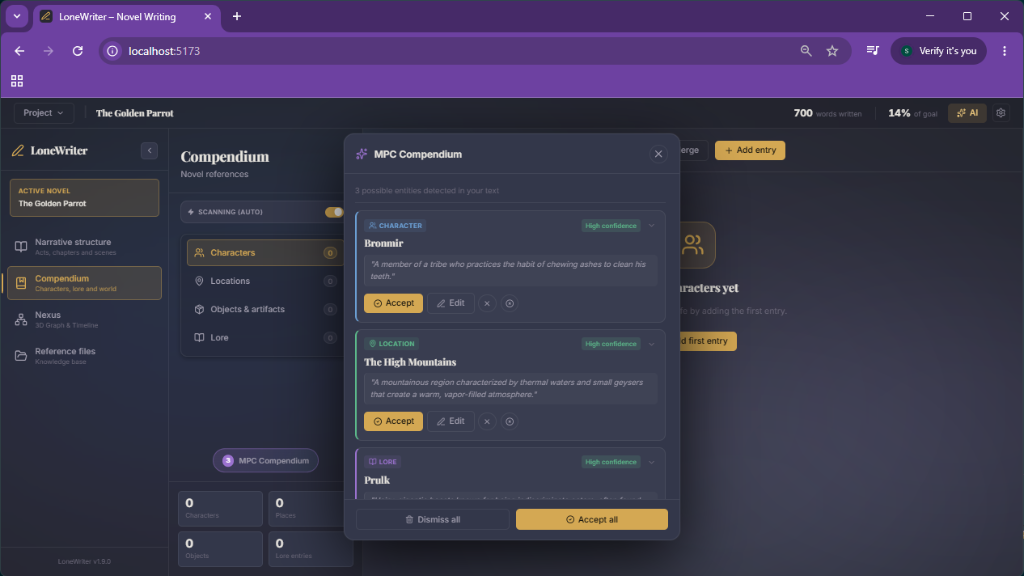
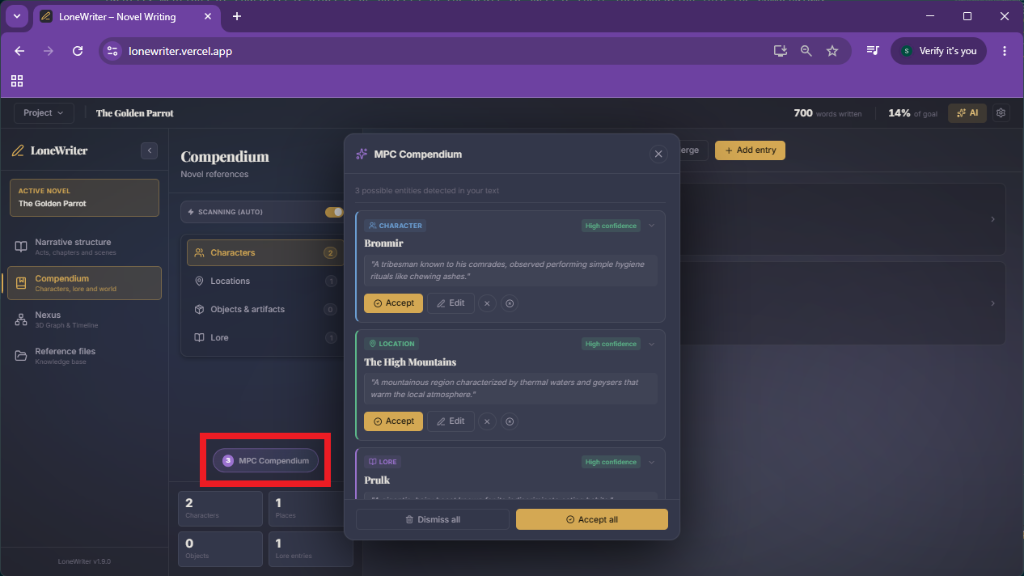
docs: finalize MPC and Oracle documentation standards with expanded technical details and visual improvements

diff --git a/docs/es/guide/worldbuilding/mpc.md b/docs/es/guide/worldbuilding/mpc.md
@@ -2,7 +2,8 @@
 
 El Monitor de Propuestas del Compendio (MPC) es una herramienta de asistencia que opera durante el proceso de escritura. Su función es identificar automáticamente menciones de personajes, lugares u objetos en el borrador para sugerir su incorporación al Compendio.
 
----
+> [!IMPORTANT]
+> El MPC ha sido diseñado como una herramienta de apoyo que siempre requiere la supervisión del autor. Ningún elemento se añadirá al Compendio sin su aprobación explícita.
 
 ## Funcionamiento del MPC
 
@@ -14,54 +15,33 @@ El Monitor de Propuestas del Compendio (MPC) es una herramienta de asistencia qu
 </div>
 <div style="flex: 1; min-width: 300px;">
 
-Mientras redacta en el editor, el motor de IA analiza el flujo de su narrativa de forma periódica y silenciosa en segundo plano para detectar elementos clave.
+Mientras redacta en el editor, el motor de IA analiza el flujo de su narrativa de forma periódica y silenciosa en segundo plano para detectar elementos clave que aún no han sido registrados (Personajes, Lugares, Objetos o elementos de Lore).
 
-**Para que este análisis inteligente se ejecute correctamente, asegúrese de tener siempre activado el interruptor de escaneo automático (Scanning Auto) que encontrará en la cabecera de la vista del Compendio.**
+Para garantizar un rendimiento fluido, el monitor utiliza un intervalo de cortesía (**cooldown**) de unos 15 segundos entre cada análisis automático. Si prefiere un resultado inmediato sobre un párrafo concreto, puede forzarlo mediante el **Análisis Manual**: simplemente seleccione el texto y pulse el botón MPC en la cabecera.
 
-Por ejemplo, si escribe: *"El oficial Valerius exploraba las ruinas de Kaelum"*, el MPC identificará posibles entradas para Valerius y Kaelum.
+**Para que el análisis en segundo plano se ejecute, asegúrese de tener activado el interruptor "Scanning Auto" en la cabecera de la vista del Compendio.**
 
 </div>
 </div>
 
 ---
 
-### Guía visual paso a paso
-
-````carousel
-![1. Detección automática de entidades mientras el autor escribe](/img/guide/worldbuilding/mpc_step1.png)
-<!-- slide -->
-![2. Revisión de las entidades detectadas automáticamente](/img/guide/worldbuilding/mpc_step2.png)
-<!-- slide -->
-![3. Activación manual del MPC (búsqueda en texto seleccionado)](/img/guide/worldbuilding/mpc_step3.png)
-<!-- slide -->
-![4. Revisión de las nuevas entidades detectadas en la selección](/img/guide/worldbuilding/mpc_step4.png)
-<!-- slide -->
-![5. Navegación por el Compendio con las entidades guardadas](/img/guide/worldbuilding/mpc_step5.png)
-````
-
-> [!TIP] Primer uso
-> La primera vez que active el MPC, el sistema descargará automáticamente el modelo local **all-MiniLM-L6-v2** (aprox. 25MB). Este proceso solo ocurre una vez y permite que el análisis semántico se realice íntegramente en su dispositivo, garantizando su privacidad.
-
----
 
 ## Gestión de Propuestas
-Las detecciones se muestran en el panel lateral del MPC. Para cada propuesta, dispone de las siguientes opciones:
+Las detecciones se muestran en el panel lateral del MPC. El sistema filtra automáticamente cualquier nombre que ya exista en su Compendio para evitar duplicidades. Para cada propuesta, dispone de las siguientes opciones:
 
-- **Aceptar**: La entidad se crea en el Compendio con los datos extraídos por el sistema.
-- **Rechazar**: La propuesta se descarta.
-- **Editar**: Permite modificar el nombre o la categoría antes de confirmar la creación.
+- **Aceptar**: La entidad se crea en el Compendio. El sistema intenta extraer automáticamente datos como el rol, la categoría o rasgos distintivos basándose en el contexto.
+- **Rechazar**: Elimina la propuesta de la lista de sugerencias actual.
+- **Ignorar Permanentemente**: Añade el nombre a una \"lista negra\" específica de la novela para que el monitor no vuelva a sugerirlo en futuros escaneos.
+- **Editar**: Permite modificar el nombre o cambiar la categoría (ej. de Personaje a Objeto) antes de confirmar la creación definitiva.
 
----
+> [!NOTE] CONSEJO
+> Las propuestas del MPC se guardan localmente para cada novela. Puede cerrar la aplicación y sus sugerencias pendientes seguirán disponibles en su próxima sesión.
 
-## Detección de Relaciones
-El sistema no se limita a identificar nombres propios, sino que también intenta inferir vínculos entre entidades basándose en el contexto del texto, sugiriendo relaciones automáticas cuando es posible.
-
----
-
-## Configuración
-La sensibilidad y frecuencia del MPC pueden ajustarse desde el menú de Configuración:
-- **Frecuencia**: Define el intervalo de análisis del texto.
-- **Estado**: Permite activar o desactivar el monitor según las necesidades del flujo de trabajo.
-
-> [!IMPORTANT] IMPORTANTE
-> El MPC ha sido diseñado como una herramienta de apoyo que siempre requiere la supervisión del autor. Ningún elemento se añadirá al Compendio sin su aprobación explícita.
+<StepCarousel :slides="[
+  { src: '/img/guide/worldbuilding/mpc_step1.png', label: '1. Detección automática de entidades mientras el autor escribe.' },
+  { src: '/img/guide/worldbuilding/mpc_step2.png', label: '2. Revisión de las entidades detectadas automáticamente (notificadas en el botón del MPC).' },
+  { src: '/img/guide/worldbuilding/mpc_step3.png', label: '3. Activación manual del MPC: búsqueda de entidades en un fragmento de texto seleccionado.' },
+  { src: '/img/guide/worldbuilding/mpc_step4.png', label: '4. Revisión de las nuevas entidades detectadas basándose en la selección anterior.' },
+  { src: '/img/guide/worldbuilding/mpc_step5.png', label: '5. Navegación por el Compendio con todas las nuevas entidades guardadas y organizadas.' }
+]" />

diff --git a/docs/guide/worldbuilding/mpc.md b/docs/guide/worldbuilding/mpc.md
@@ -4,6 +4,9 @@ The Compendium Proposal Monitor (MPC) is an assistance tool that operates during
 
 ---
 
+> [!IMPORTANT]
+> The MPC has been designed as a support tool that always requires author supervision. No element will be added to the Compendium without your explicit approval.
+
 ## MPC Operation
 
 <div style="display: flex; gap: 40px; align-items: center; flex-wrap: wrap;">
@@ -14,54 +17,34 @@ The Compendium Proposal Monitor (MPC) is an assistance tool that operates during
 </div>
 <div style="flex: 1; min-width: 300px;">
 
-While you write in the editor, the AI engine periodically and silently analyzes your narrative flow in the background to detect key elements.
+While you write in the editor, the AI engine periodically and silently analyzes your narrative flow in the background to detect key elements that haven't been registered yet (Characters, Locations, Objects, or Lore).
 
-**To ensure this intelligent analysis runs correctly, make sure the automatic scanning switch (Scanning Auto) located at the top of the Compendium view is active.**
+To ensure smooth performance, the monitor uses a **cooldown** interval of about 15 seconds between each automatic analysis. If you prefer an immediate result on a specific paragraph, you can force it using **Manual Analysis**: simply select the text and press the MPC button in the header.
 
-For example, if you write: *"Officer Valerius explored the ruins of Kaelum,"* the MPC will identify possible entries for Valerius and Kaelum.
+**To ensure background analysis runs, make sure the "Scanning Auto" switch at the top of the Compendium view is active.**
 
 </div>
 </div>
 
 ---
 
-### Step-by-step visual guide
-
-````carousel
-![1. Automatic entity detection while the author writes](/img/guide/worldbuilding/mpc_step1.png)
-<!-- slide -->
-![2. Review of automatically detected entities](/img/guide/worldbuilding/mpc_step2.png)
-<!-- slide -->
-![3. Manual MPC activation (search in selected text)](/img/guide/worldbuilding/mpc_step3.png)
-<!-- slide -->
-![4. Review of new entities detected in the selection](/img/guide/worldbuilding/mpc_step4.png)
-<!-- slide -->
-![5. Compendium navigation with saved entities](/img/guide/worldbuilding/mpc_step5.png)
-````
-
-> [!TIP] First Use
-> The first time you activate the MPC, the system will automatically download the local **all-MiniLM-L6-v2** model (approx. 25MB). This process only happens once and allows the semantic analysis to be performed entirely on your device, ensuring your privacy.
-
----
 
 ## Managing Proposals
-Detections are shown in the MPC side panel. For each proposal, you have the following options:
+Detections are shown in the MPC side panel. The system automatically filters any name already in your Compendium to avoid duplicates. For each proposal, you have the following options:
 
-- **Accept**: The entity is created in the Compendium with the data extracted by the system.
-- **Reject**: The proposal is discarded.
-- **Edit**: Allows modifying the name or category before confirming the creation.
+- **Accept**: The entity is created in the Compendium. The system attempts to automatically extract data such as role, category, or distinctive traits based on the detected context.
+- **Reject**: Removes the proposal from the current suggestions list.
+- **Ignore Permanently**: Adds the name to a novel-specific "blacklist" so the monitor won't suggest that entity again in future scans.
+- **Edit**: Allows modifying the name or changing the category (e.g., from Character to Object) before confirming the final creation.
 
----
+> [!NOTE] TIP
+> MPC proposals are saved locally for each novel. You can close the application, and your pending suggestions will still be available in your next session.
 
-## Relationship Detection
-The system is not limited to identifying proper names but also attempts to infer links between entities based on the context of the text, suggesting automatic relationships when possible.
+<StepCarousel :slides="[
+  { src: '/img/guide/worldbuilding/mpc_step1.png', label: '1. Automatic entity detection while the author writes.' },
+  { src: '/img/guide/worldbuilding/mpc_step2.png', label: '2. Review of automatically detected entities (notified on the MPC button).' },
+  { src: '/img/guide/worldbuilding/mpc_step3.png', label: '3. Manual MPC activation: search for entities in a selected text fragment.' },
+  { src: '/img/guide/worldbuilding/mpc_step4.png', label: '4. Review of new entities detected based on the previous selection.' },
+  { src: '/img/guide/worldbuilding/mpc_step5.png', label: '5. Compendium navigation with all new entities saved and organized.' }
+]" />
 
----
-
-## Configuration
-The sensitivity and frequency of the MPC can be adjusted from the Settings menu:
-- **Frequency**: Defines the text analysis interval.
-- **Status**: Allows activating or deactivating the monitor according to workflow needs.
-
-> [!IMPORTANT]
-> The MPC has been designed as a support tool that always requires author supervision. No element will be added to the Compendium without your explicit approval.

diff --git a/docs/es/guide/worldbuilding/compendium.md b/docs/es/guide/worldbuilding/compendium.md
@@ -29,11 +29,4 @@ Esta función permite a la inteligencia artificial asistir en la creación de en
 ---
 
 ## Relaciones entre Entidades
-LoneWriter permite definir vínculos entre los diferentes elementos del Compendio para construir una red narrativa sólida.
-
-### Crear una relación:
-1. Acceda a la sección de Relaciones dentro de una entidad.
-2. Seleccione la entidad de destino.
-3. Defina el tipo de vínculo (ejemplo: "Aliado de", "Ubicado en").
-
-Estas relaciones se visualizan gráficamente en el Nexus, permitiendo analizar la estructura de la historia de forma visual.
+Para una guía detallada sobre cómo conectar personajes, lugares y objetos, consulte la sección [Relaciones y Entidades](./entities.md).

diff --git a/docs/guide/worldbuilding/compendium.md b/docs/guide/worldbuilding/compendium.md
@@ -29,11 +29,4 @@ This feature allows artificial intelligence to assist in creating Compendium ent
 ---
 
 ## Relationships between Entities
-LoneWriter allows defining links between different Compendium elements to build a solid narrative network.
-
-### Create a Relationship:
-1. Access the Relationships section within an entity.
-2. Select the target entity.
-3. Define the type of link (example: "Ally of," "Located in").
-
-These relationships are visualized graphically in the Nexus, allowing the structure of the story to be analyzed visually.
+For a detailed guide on how to connect characters, places, and objects, please refer to the [Relationships and Entities](./entities.md) section.

diff --git a/docs/es/guide/analysis/oracle.md b/docs/es/guide/analysis/oracle.md
@@ -32,6 +32,11 @@ Para garantizar la precisión y rapidez de las respuestas, LoneWriter utiliza te
 2. **Privacidad**: Todo el procesamiento se realiza de forma local en el navegador. La base de datos de conocimiento no se transfiere a servidores externos.
 3. **Actualización**: El sistema notifica al usuario cuando el contenido del borrador ha sido indexado correctamente y está disponible para consultas.
 
+> [!TIP] CONSEJO
+> La primera vez que acceda al Oráculo (o utilice funciones semánticas locales), el sistema descargará automáticamente el modelo local **all-MiniLM-L6-v2** (aprox. 25MB). Este proceso solo ocurre una vez y permite que el análisis se realice íntegramente en su dispositivo, garantizando su privacidad.
+
+![Notificación de Modelo RAG Listo](/img/guide/analysis/oracle_model_ready.png)
+
 ---
 
 ## Recomendaciones de Uso

diff --git a/docs/guide/analysis/oracle.md b/docs/guide/analysis/oracle.md
@@ -32,6 +32,11 @@ To ensure accuracy and speed of responses, LoneWriter utilizes **RAG** (Retrieva
 2. **Privacy**: All processing is done locally in the browser. The knowledge database is not transferred to external servers.
 3. **Updating**: The system notifies the user when the draft content has been correctly indexed and is available for queries.
 
+> [!TIP] TIP
+> The first time you access the Oracle (or use local semantic features), the system will automatically download the local **all-MiniLM-L6-v2** model (approx. 25MB). This process only happens once and allows the analysis to be performed entirely on your device, ensuring your privacy.
+
+![RAG Model Ready Notification](/img/guide/analysis/oracle_model_ready.png)
+
 ---
 
 ## Usage Recommendations